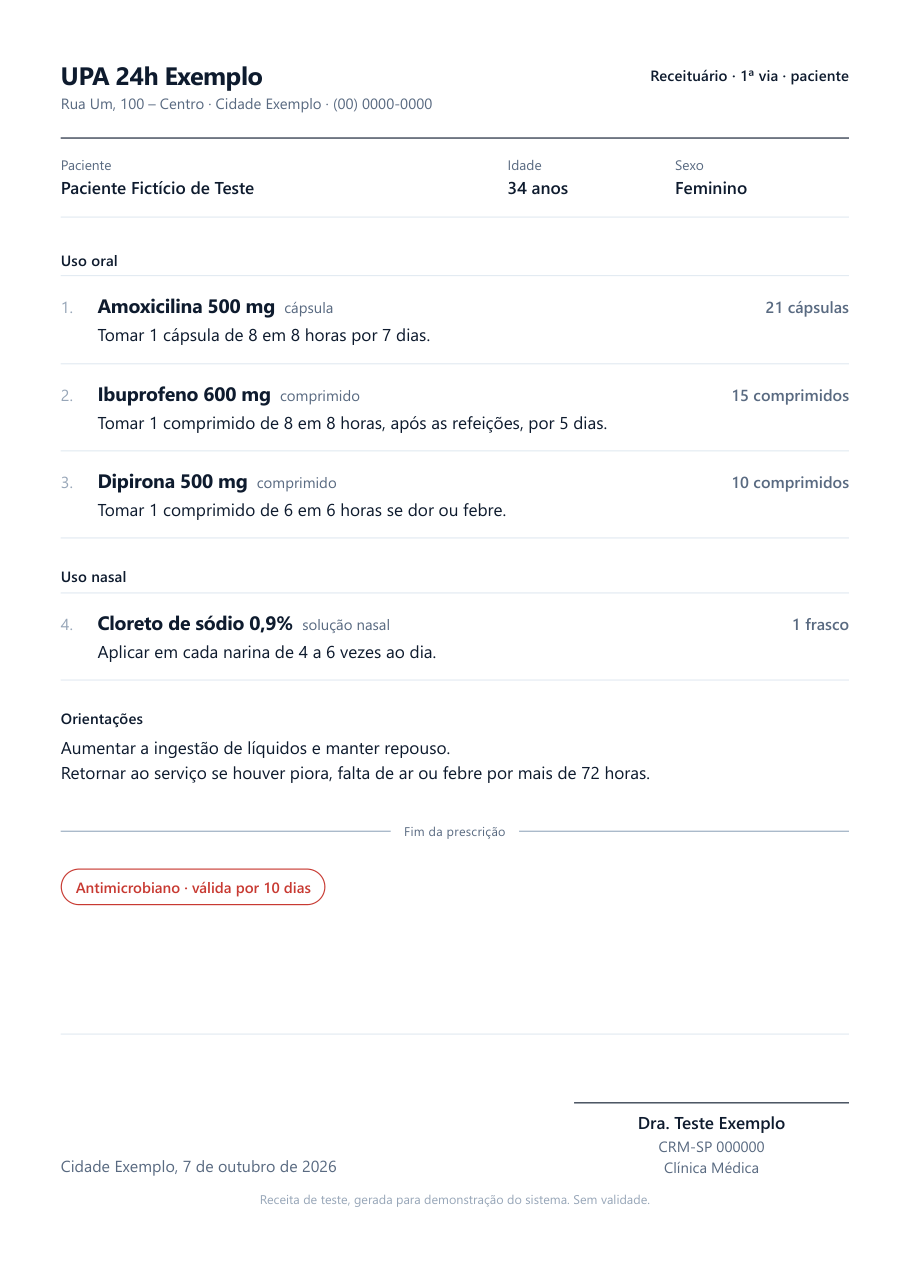
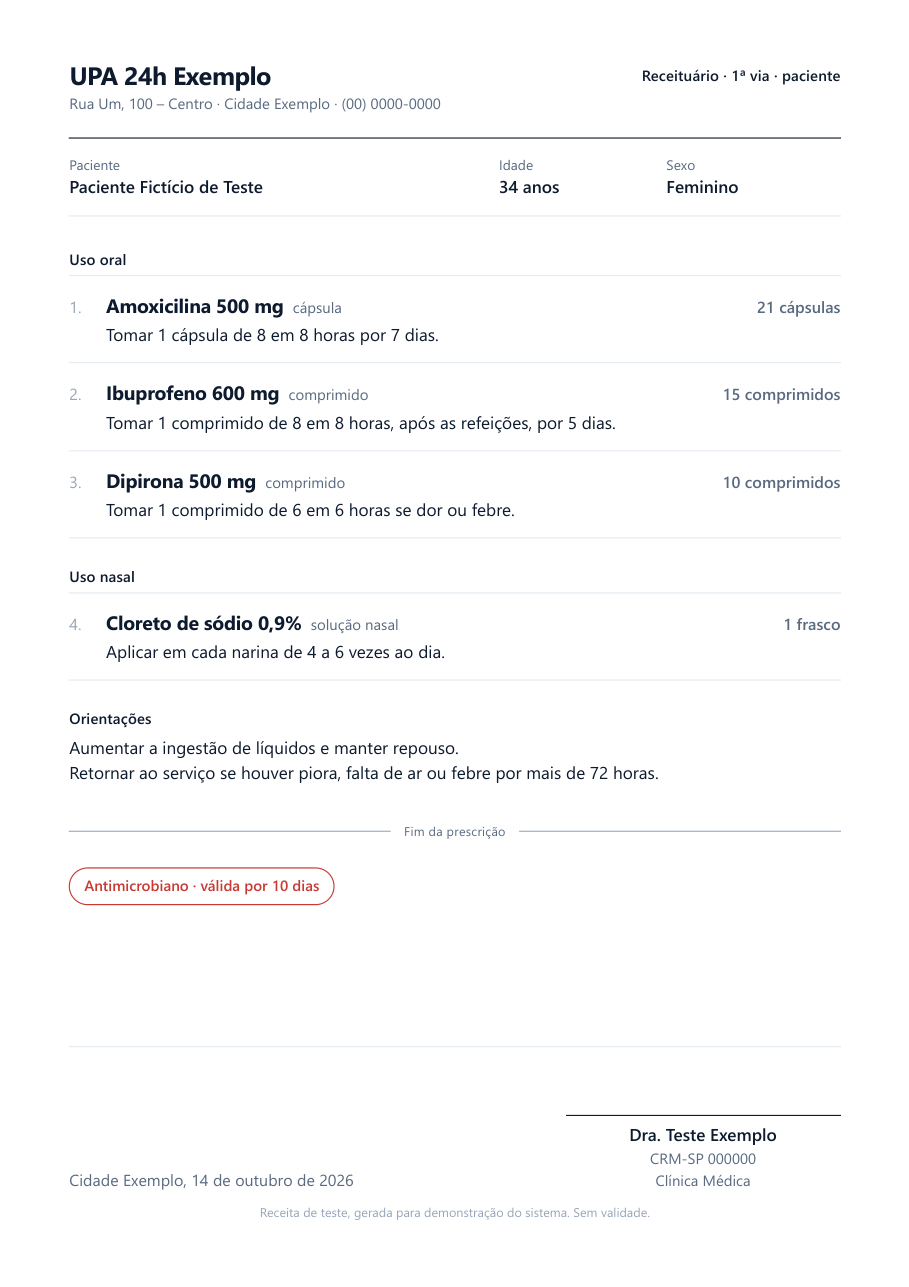
Prontuário por seção e impressão sem cabeçalho do navegador
Retorno do Fábio (médico) no teste de 14/10:
- Queixa principal, HDA e história pregressa viram seções separadas
- Cada seção tem o próprio "Copiar", para colar no campo certo do sistema da UPA;
  o botão do topo vira "Copiar tudo"
- Margem da página zerada: o navegador deixa de imprimir data, endereço do
  site e numeração na receita

diff --git a/assets/dados-prontuario.js b/assets/dados-prontuario.js
@@ -12,8 +12,9 @@
 
   window.RX_PRONTUARIO = {
     secoes: [
-      { id: 'hda', titulo: 'Queixa e história', rotulo: 'QP/HDA', dica: 'Clique nas frases ou escreva livremente.' },
-      { id: 'ant', titulo: 'Antecedentes', rotulo: 'Antecedentes', dica: 'Comorbidades, alergias e medicações em uso.' },
+      { id: 'qp', titulo: 'Queixa principal', rotulo: 'QP', dica: 'Nas palavras do paciente, com o tempo de evolução.' },
+      { id: 'hda', titulo: 'História da doença atual', rotulo: 'HDA', dica: 'Clique nas frases ou escreva livremente.' },
+      { id: 'ant', titulo: 'História pregressa', rotulo: 'HPP', dica: 'Comorbidades, alergias e medicações em uso.' },
       { id: 'ef', titulo: 'Exame físico', rotulo: 'Exame físico', dica: 'Só o que foi examinado.' },
       { id: 'hd', titulo: 'Hipótese diagnóstica', rotulo: 'HD', dica: 'Hipótese e CID, se quiser.' },
       { id: 'cd', titulo: 'Conduta', rotulo: 'Conduta', dica: 'O que foi feito e orientado.' },
@@ -86,48 +87,48 @@
     },
 
     queixas: [
-      { id: 'geral', nome: 'Geral', hda: [
+      { id: 'geral', nome: 'Geral', qp: [], hda: [
         k('refere __ há __ dias'), k('início súbito'), k('início gradual'), k('nega febre'), k('nega trauma'),
         k('nega episódios prévios semelhantes'), k('fez uso de __, sem melhora'),
       ], hd: [] },
 
-      { id: 'gripal', nome: 'Síndrome gripal', hda: [
+      { id: 'gripal', nome: 'Síndrome gripal', qp: [k('tosse há __ dias'), k('febre há __ dias'), k('coriza'), k('dor de garganta'), k('dor no corpo')], hda: [
         k('tosse seca há __ dias'), k('tosse produtiva há __ dias'), k('coriza'), k('obstrução nasal'), k('odinofagia'),
         k('febre aferida de __ °C'), k('febre não aferida'), k('mialgia'), k('cefaleia'),
         k('nega dispneia'), k('nega dor torácica'), k('contato com pessoa com sintomas semelhantes'),
       ], hd: [k('síndrome gripal'), k('infecção de vias aéreas superiores')] },
 
-      { id: 'garganta', nome: 'Dor de garganta', hda: [
+      { id: 'garganta', nome: 'Dor de garganta', qp: [k('dor de garganta há __ dias'), k('febre'), k('dor para engolir')], hda: [
         k('odinofagia há __ dias'), k('febre aferida de __ °C'), k('febre não aferida'), k('nega tosse'), k('nega coriza'),
         k('disfagia'), k('nega dispneia'), k('nega trismo'),
       ], hd: [k('faringoamigdalite aguda')] },
 
-      { id: 'lombar', nome: 'Dor lombar', hda: [
+      { id: 'lombar', nome: 'Dor lombar', qp: [k('dor nas costas há __ dias'), k('dor lombar há __ dias')], hda: [
         k('dor lombar há __ dias'), k('início após esforço físico'), k('piora à movimentação'), k('sem irradiação'),
         k('irradiação para membro inferior __'), k('nega trauma'), k('nega febre'),
         k('nega perda de força ou alteração de sensibilidade'), k('nega incontinência urinária ou fecal'),
         k('nega sintomas urinários'),
       ], hd: [k('lombalgia mecânica aguda')] },
 
-      { id: 'cefaleia', nome: 'Cefaleia', hda: [
+      { id: 'cefaleia', nome: 'Cefaleia', qp: [k('dor de cabeça há __'), k('cefaleia há __')], hda: [
         k('cefaleia há __'), k('holocraniana'), k('hemicraniana à __'), k('pulsátil'), k('em aperto'),
         k('intensidade __/10'), k('fotofobia e fonofobia'), k('náuseas'), k('semelhante a episódios prévios'),
         k('nega início súbito'), k('nega febre'), k('nega déficit neurológico'), k('nega trauma'),
       ], hd: [k('cefaleia primária'), k('enxaqueca'), k('cefaleia tensional')] },
 
-      { id: 'gastro', nome: 'Diarreia e vômitos', hda: [
+      { id: 'gastro', nome: 'Diarreia e vômitos', qp: [k('diarreia há __ dias'), k('vômitos há __ dias'), k('dor de barriga')], hda: [
         k('diarreia há __ dias'), k('__ evacuações líquidas ao dia'), k('sem sangue ou muco'), k('vômitos, __ episódios'),
         k('dor abdominal em cólica'), k('febre não aferida'), k('nega febre'), k('aceitando líquidos'),
         k('diurese preservada'), k('contactantes com quadro semelhante'),
       ], hd: [k('gastroenterite aguda')] },
 
-      { id: 'urinario', nome: 'Sintomas urinários', hda: [
+      { id: 'urinario', nome: 'Sintomas urinários', qp: [k('ardência ao urinar há __ dias'), k('vontade de urinar toda hora')], hda: [
         k('disúria há __ dias'), k('polaciúria'), k('urgência miccional'), k('dor suprapúbica'),
         k('nega febre'), k('nega dor lombar'), k('nega hematúria'), k('nega corrimento vaginal'),
         k('nega episódios recentes semelhantes'),
       ], hd: [k('cistite aguda não complicada')] },
 
-      { id: 'arbovirose', nome: 'Suspeita de arbovirose', hda: [
+      { id: 'arbovirose', nome: 'Suspeita de arbovirose', qp: [k('febre há __ dias'), k('dor no corpo'), k('manchas na pele')], hda: [
         k('febre há __ dias'), k('mialgia'), k('cefaleia'), k('dor retro-orbitária'), k('artralgia'), k('exantema'),
         k('náuseas'), k('nega sangramentos'), k('nega dor abdominal intensa'), k('nega vômitos persistentes'),
         k('nega tontura ou desmaio'),

diff --git a/exemplos/receita-teste.html b/exemplos/receita-teste.html
@@ -6,6 +6,8 @@
   <title>Rx Plantão</title>
   <meta name="description" content="Agiliza a redação da prescrição e do prontuário no plantão.">
   <meta name="theme-color" content="#eef6fe">
+  <!-- Versão de teste: fora dos buscadores. -->
+  <meta name="robots" content="noindex, nofollow">
   <link rel="stylesheet" href="../assets/styles.css">
 </head>
 <body class="entrando" data-tab="prescricao">
@@ -35,6 +37,7 @@
           <button type="button" role="menuitem" id="btnLimpar">Nova receita</button>
           <button type="button" role="menuitem" id="btnLimparPront" hidden>Limpar prontuário</button>
           <hr>
+          <button type="button" role="menuitem" id="btnResumo">Resumo de uso</button>
           <button type="button" role="menuitem" id="btnPerfil"><span id="perfilResumo">Meus dados</span></button>
         </div>
       </div>
@@ -66,6 +69,12 @@
         <div class="folha__corpo">
           <div id="itens"></div>
 
+          <!-- Primeiro uso: uma ação só, a que leva mais rápido à receita pronta -->
+          <div class="inicio" id="inicio" hidden>
+            <h2 class="inicio__titulo">Comece pelo remédio</h2>
+            <p class="inicio__texto">Digite o nome, escolha a dosagem e a linha entra pronta na receita. Paciente e assinatura podem vir depois.</p>
+          </div>
+
           <!-- Ponto de escrita: onde o próximo medicamento entra na receita -->
           <div class="compor" id="compor">
             <div class="compor__campo">
@@ -90,6 +99,7 @@
                 <p class="rotulo">Meus modelos</p>
                 <ul class="modelos" id="modelos"></ul>
               </div>
+              <button type="button" class="mais" id="btnExemplo" hidden>Ver uma receita de exemplo</button>
             </div>
           </div>
 
@@ -104,6 +114,8 @@
         <footer class="folha__rodape" id="folhaRodape"></footer>
       </article>
 
+      <!-- O que o médico já construiu aqui: receitas feitas, tempo medido, padrões e modelos dele -->
+      <p class="acumulado" id="acumulado" hidden></p>
       <p class="aviso">Base de medicamentos em revisão clínica. Confira dose, intervalo e duração antes de assinar. Não inclui medicamentos de controle especial.</p>
     </section>
 
@@ -124,7 +136,7 @@
   <dialog class="dlg" id="dlgPerfil" aria-labelledby="dlgPerfilTitulo">
     <form method="dialog" id="formPerfil">
       <h2 id="dlgPerfilTitulo">Meus dados</h2>
-      <p class="dlg__sub">Aparecem no cabeçalho e na assinatura da receita. Ficam salvos só neste navegador.</p>
+      <p class="dlg__sub" id="dlgPerfilSub">Aparecem no cabeçalho e na assinatura da receita. Ficam salvos só neste navegador.</p>
       <div class="dlg__grid">
         <label class="cmp cmp--full"><span>Nome do médico</span><input name="nome" autocomplete="name" placeholder="Dr(a). Nome Sobrenome"></label>
         <label class="cmp"><span>CRM</span><input name="crm" inputmode="numeric" placeholder="000000"></label>
@@ -152,6 +164,16 @@
         <button class="btn btn--primario" value="salvar" type="submit">Salvar</button>
       </div>
     </form>
+  </dialog>
+
+  <dialog class="dlg" id="dlgResumo" aria-labelledby="dlgResumoTitulo">
+    <h2 id="dlgResumoTitulo">Resumo de uso</h2>
+    <p class="dlg__sub">O que aconteceu neste aparelho. Nada de paciente entra aqui. Mande para quem cuida do sistema: é com isso que a base melhora.</p>
+    <div class="resumo" id="resumoCorpo"></div>
+    <div class="dlg__acoes">
+      <button class="btn" type="button" data-fechar>Fechar</button>
+      <button class="btn btn--primario" type="button" id="btnCopiarResumo">Copiar resumo</button>
+    </div>
   </dialog>
 
   <div class="toast" id="toast" role="status" aria-live="polite"></div>

diff --git a/assets/app.js b/assets/app.js
@@ -709,6 +709,7 @@
 
   function gruposDaSecao(id) {
     const queixa = PRONT.queixas.find((q) => q.id === estado.pront.queixa);
+    if (id === 'qp') return queixa.qp.length ? [{ grupo: '', chips: queixa.qp }] : [];
     if (id === 'hda') return [{ grupo: '', chips: queixa.hda }];
     if (id === 'hd') return queixa.hd.length ? [{ grupo: '', chips: queixa.hd }] : [];
     return PRONT.comuns[id] || [];
@@ -734,7 +735,10 @@
         </div>`).join('');
       return `
         <section class="sec" data-sec="${esc(s.id)}">
-          <h3 class="via__nome">${esc(s.titulo)}</h3>
+          <div class="sec__cab">
+            <h3 class="via__nome">${esc(s.titulo)}</h3>
+            <button type="button" class="sec__copiar" data-copiar-sec aria-label="Copiar ${esc(s.titulo)}">Copiar</button>
+          </div>
           <textarea class="sec__texto" rows="1" placeholder="${esc(s.dica)}" aria-label="${esc(s.titulo)}">${esc(valor)}</textarea>
           <div class="chips">${grupos}${s.id === 'cd' ? '<div class="sec__grupo"><button type="button" class="chip chip--acao" data-inserir-rx>+ Inserir prescrição atual</button></div>' : ''}</div>
         </section>`;
@@ -764,6 +768,15 @@
     const sec = ev.target.closest('.sec');
     if (!sec) return;
     const area = $('.sec__texto', sec);
+
+    // Os sistemas das UPAs têm um campo para cada parte: aqui sai só o texto desta seção, sem o rótulo.
+    if (ev.target.closest('[data-copiar-sec]')) {
+      let texto = area.value.trim();
+      const titulo = PRONT.secoes.find((s) => s.id === sec.dataset.sec).titulo;
+      if (!texto) return avisar(`${titulo}: ainda está vazio.`);
+      if (!/[.!?]$/.test(texto)) texto += '.';
+      return copiar(texto, `${titulo} copiado. É só colar no campo do sistema.`);
+    }
 
     if (ev.target.closest('[data-inserir-rx]')) {
       if (!estado.itens.length) return avisar('A receita está vazia. Escreva a prescrição primeiro.');
@@ -969,6 +982,7 @@
     $('#btnSalvarModelo').hidden = !naReceita;
     $('#btnLimpar').hidden = !naReceita;
     $('#btnLimparPront').hidden = naReceita;
+    $('#btnCopiar').textContent = naReceita ? 'Copiar' : 'Copiar tudo';
     // Campos escondidos medem altura zero; ao aparecer, voltam ao tamanho do texto.
     $$(naReceita ? '#tab-prescricao textarea' : '#secoes .sec__texto').forEach(ajustarAltura);
     window.scrollTo({ top: 0 });

diff --git a/assets/styles.css b/assets/styles.css
@@ -478,6 +478,21 @@ input.rx__qtd { height: 1.75rem; padding: 0 0.375rem; margin-right: -0.375rem; f
 .chip--queixa { padding: 0.4375rem 0.875rem; font-size: 0.875rem; }
 .secoes { display: flex; flex-direction: column; gap: 1.75rem; }
 .sec { padding-top: 1.25rem; border-top: 1px solid var(--linha); }
+.sec__cab { display: flex; align-items: center; justify-content: space-between; gap: 0.75rem; margin-bottom: 0.25rem; }
+.sec__cab .via__nome { margin-bottom: 0; }
+.sec__copiar {
+  height: 1.75rem;
+  padding: 0 0.6875rem;
+  border: 0;
+  border-radius: 0.5rem;
+  background: var(--azul-claro);
+  color: var(--azul);
+  font-size: 0.8125rem;
+  font-weight: 600;
+  transition: background-color 0.15s, transform 0.25s var(--mola);
+}
+.sec__copiar:hover { background: var(--azul-medio); color: var(--azul-forte); }
+.sec__copiar:active { transform: scale(0.96); transition-duration: 0.1s; }
 .sec__texto {
   display: block;
   width: calc(100% + 0.75rem);
@@ -633,16 +648,17 @@ input.rx__qtd { height: 1.75rem; padding: 0 0.375rem; margin-right: -0.375rem; f
 .rx__fim { display: flex; align-items: center; gap: 0.75rem; margin-top: 0.5rem; font-size: 0.6875rem; letter-spacing: 0.02em; color: var(--suave); }
 .rx__fim::before, .rx__fim::after { content: ''; flex: 1; height: 1px; background: #9fb0c4; }
 
-@page { size: A4; margin: 14mm; }
+@page { size: A4; margin: 0; }
 
 @media print {
   body { background: #fff; }
   body > *:not(#impressao) { display: none !important; }
   #impressao { display: block; }
   .folha--impressa {
-    min-height: 265mm;
+    box-sizing: border-box;
+    min-height: 296mm;
     margin: 0;
-    padding: 0;
+    padding: 14mm 16mm;
     border-radius: 0;
     box-shadow: none;
     animation: none;
